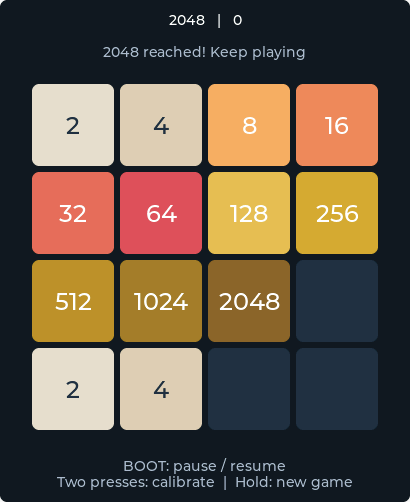
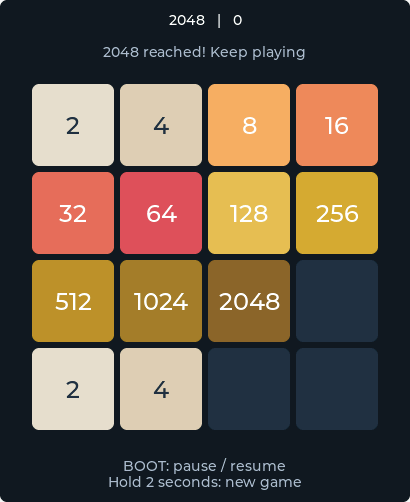
Release 0.1.2 with touchscreen swipe controls for 2048

Changed region(s): [[0.1463, 0.9263, 0.8488, 0.9861]]

diff --git a/FirmWare/watch/components/dp_watch_2048/GameView.h b/FirmWare/watch/components/dp_watch_2048/GameView.h
@@ -1,13 +1,12 @@
 #pragma once
 #include "BootButton.h"
-#include "CalibrationService.h"
 #include "Game2048.h"
-#include "MotionControl.h"
+#include "SwipeControl.h"
 #include <lvgl.h>
 namespace dpwatch {
 class GameView {
     lv_obj_t *root = nullptr, *tiles[16]{}, *scoreLabel = nullptr, *statusLabel = nullptr;
-    CalibrationState sharedState = CalibrationState::Needed;
+    SwipeControl swipe;
     bool paused = false;
     BootButton boot;
     void render() {
@@ -33,28 +32,37 @@ class GameView {
     void status() {
         if (!root)
             return;
-        const char *text = "Double-press BOOT to calibrate";
-        if (sharedState == CalibrationState::Loading)
-            text = "Keep flat and still - calibrating";
-        else if (sharedState == CalibrationState::Unavailable)
-            text = "Motion sensor unavailable";
-        else if (sharedState == CalibrationState::Error)
-            text = "Calibration failed - double-press BOOT";
-        else if (sharedState == CalibrationState::Ready) {
-            if (paused)
-                text = "Paused - press BOOT to resume";
-            else if (!game.canMove())
-                text = "Game over - hold BOOT for a new game";
-            else
-                text =
-                    game.won() ? "2048 reached! Keep playing" : "Tilt to move; return to neutral";
-        }
+        const char *text = "Swipe to move the tiles";
+        if (paused) text = "Paused - press BOOT to resume";
+        else if (!game.canMove()) text = "Game over - hold BOOT for a new game";
+        else if (game.won()) text = "2048 reached! Keep playing";
         lv_label_set_text(statusLabel, text);
     }
 
   public:
     Game2048 game;
-    MotionControl motion;
+    // LVGL routes the entire board contact here, including contacts on tiles.
+    static void touchEvent(lv_event_t *event) {
+        auto *view = static_cast<GameView *>(lv_event_get_user_data(event));
+        auto *input = lv_indev_active();
+        if (!input) return;
+        lv_point_t point;
+        lv_indev_get_point(input, &point);
+        switch (lv_event_get_code(event)) {
+        case LV_EVENT_PRESSED: view->touchDown(point.x, point.y); break;
+        case LV_EVENT_RELEASED: view->touchUp(point.x, point.y); break;
+        case LV_EVENT_PRESS_LOST: view->swipe.cancel(); break;
+        default: break;
+        }
+    }
+    void touchDown(int x, int y) { if (!paused) swipe.press(x, y); }
+    void touchUp(int x, int y) {
+        const auto direction = swipe.release(x, y);
+        if (!paused && direction != Direction::None && game.move(direction)) {
+            render();
+            status();
+        }
+    }
     void open(lv_obj_t *parent, unsigned seed) {
         if (game.cells == std::array<uint32_t, 16>{})
             game.reset(seed);
@@ -82,13 +90,15 @@ class GameView {
         lv_obj_set_style_pad_all(board, 0, 0);
         lv_obj_set_style_border_width(board, 0, 0);
         lv_obj_set_style_bg_color(board, lv_color_hex(0x101827), 0);
-        lv_obj_remove_flag(board, LV_OBJ_FLAG_SCROLLABLE);
+        lv_obj_remove_flag(board, static_cast<lv_obj_flag_t>(LV_OBJ_FLAG_SCROLLABLE | LV_OBJ_FLAG_GESTURE_BUBBLE));
+        lv_obj_add_flag(board, LV_OBJ_FLAG_PRESS_LOCK);
+        lv_obj_add_event_cb(board, touchEvent, LV_EVENT_ALL, this);
         for (int i = 0; i < 16; ++i) {
             auto *tile = lv_obj_create(board);
             lv_obj_set_size(tile, cell, cell);
             lv_obj_set_pos(tile, (i % 4) * (cell + 6), (i / 4) * (cell + 6));
             lv_obj_set_style_border_width(tile, 0, 0);
-            lv_obj_remove_flag(tile, LV_OBJ_FLAG_SCROLLABLE);
+            lv_obj_remove_flag(tile, static_cast<lv_obj_flag_t>(LV_OBJ_FLAG_SCROLLABLE | LV_OBJ_FLAG_CLICKABLE));
             tiles[i] = lv_label_create(tile);
             lv_obj_set_style_text_font(tiles[i], &lv_font_montserrat_24, 0);
             lv_obj_center(tiles[i]);
@@ -97,59 +107,37 @@ class GameView {
         lv_obj_set_width(guide, lv_pct(100));
         lv_obj_set_style_text_align(guide, LV_TEXT_ALIGN_CENTER, 0);
         lv_obj_set_style_text_color(guide, lv_color_hex(0xA9BBCF), 0);
-        lv_label_set_text(guide, "BOOT: pause / resume\nTwo presses: calibrate  |  Hold: new game");
+        lv_label_set_text(guide, "BOOT: pause / resume\nHold 2 seconds: new game");
         lv_obj_align(guide, LV_ALIGN_BOTTOM_MID, 0, 0);
         paused = false;
         boot = BootButton{};
-        if (sharedState == CalibrationState::Ready)
-            motion.useNeutral(0, 0, lv_tick_get());
+        swipe.cancel();
         render();
         status();
     }
-    void resumeInput(unsigned now) {
+    void resumeInput(unsigned) {
         boot = BootButton{};
-        if (sharedState == CalibrationState::Ready) motion.useNeutral(0, 0, now);
-    }
-    void calibrationState(CalibrationState state, unsigned now) {
-        if (state == sharedState)
-            return;
-        sharedState = state;
-        if (state == CalibrationState::Ready)
-            motion.useNeutral(0, 0, now);
-        else
-            motion.unavailable();
-        status();
-    }
-    void feed(const MotionSample &sample, unsigned now) {
-        if (paused || sharedState != CalibrationState::Ready)
-            return;
-        const auto direction = motion.update(sample, now);
-        if (direction != Direction::None && game.move(direction)) {
-            render();
-            status();
-        }
+        swipe.cancel();
     }
     bool button(bool pressed, unsigned now) {
         auto action = boot.update(pressed, now);
-        if (action == ButtonAction::Calibrate)
-            return sharedState != CalibrationState::Loading;
+
         if (action == ButtonAction::TogglePause) {
             paused = !paused;
-            if (!paused && sharedState == CalibrationState::Ready)
-                motion.useNeutral(0, 0, now);
+            swipe.cancel();
             status();
         }
         if (action == ButtonAction::NewGame) {
             game.reset(now);
             paused = false;
-            if (sharedState == CalibrationState::Ready)
-                motion.useNeutral(0, 0, now);
+            swipe.cancel();
             render();
             status();
         }
         return false;
     }
     void close() {
+        swipe.cancel();
         if (root)
             lv_obj_delete(root);
         root = nullptr;

diff --git a/tests/watch/preview/preview.cpp b/tests/watch/preview/preview.cpp
@@ -5,35 +5,47 @@
 static std::array<uint16_t,410*502> pixels{};
 static std::array<uint16_t,410*40> buffer{};
 static void flush(lv_display_t*d,const lv_area_t*a,uint8_t*raw){auto *source=reinterpret_cast<uint16_t*>(raw);for(int y=a->y1;y<=a->y2;++y)for(int x=a->x1;x<=a->x2;++x)pixels[y*410+x]=*source++;lv_display_flush_ready(d);}
+static lv_point_t point{};
+static bool pressed = false;
+static void readTouch(lv_indev_t*, lv_indev_data_t *data) {
+ data->point = point;
+ data->state = pressed ? LV_INDEV_STATE_PRESSED : LV_INDEV_STATE_RELEASED;
+}
+static void touch(lv_indev_t *input, int x, int y, bool down) {
+ point = {x,y}; pressed = down; lv_tick_inc(20); lv_indev_read(input);
+}
+static void swipe(lv_indev_t *input, int x, int y, int endX, int endY) {
+ touch(input,x,y,true); touch(input,endX,endY,true); touch(input,endX,endY,false);
+}
 int main(int argc,char**argv){
  lv_init();auto*d=lv_display_create(410,502);lv_display_set_color_format(d,LV_COLOR_FORMAT_RGB565);lv_display_set_flush_cb(d,flush);lv_display_set_buffers(d,buffer.data(),nullptr,buffer.size()*2,LV_DISPLAY_RENDER_MODE_PARTIAL);
- dpwatch::GameView view;view.open(lv_screen_active(),42);
- view.calibrationState(dpwatch::CalibrationState::Ready, 0);
- assert(view.motion.state()==dpwatch::MotionState::Ready);
- view.button(false, 0);
- view.button(true, 100); view.button(true, 140);
- view.button(false, 200); view.button(false, 240); view.button(false, 610);
- const auto saved=view.game.cells;
- view.feed({0,0,1,0,0,0},700);
- view.feed({.5f,0,.866f,0,0,0},800);view.feed({.5f,0,.866f,0,0,0},1000);
- assert(view.game.cells==saved);
+ auto *input=lv_indev_create();lv_indev_set_type(input,LV_INDEV_TYPE_POINTER);lv_indev_set_read_cb(input,readTouch);
+ dpwatch::GameView view;view.open(lv_screen_active(),42);lv_obj_update_layout(lv_screen_active());
+ // Exercise LVGL hit testing over the actual tile widgets, not just the classifier.
+ const int ends[4][2]={{100,220},{300,220},{200,120},{200,320}};
+ for (const auto &end:ends) {
+  view.game.cells={};view.game.cells[5]=2;view.game.cells[6]=2;
+  const auto saved=view.game.cells;
+  swipe(input,200,220,end[0],end[1]);assert(view.game.cells!=saved);
+ }
+ auto saved=view.game.cells;swipe(input,200,220,210,225);assert(view.game.cells==saved);
+ swipe(input,200,220,250,270);assert(view.game.cells==saved);
+ view.button(false,0);view.button(true,100);view.button(true,140);
+ view.button(false,200);view.button(false,240);view.button(false,610);
+ swipe(input,200,220,100,220);assert(view.game.cells==saved);
  view.button(true,1100);view.button(true,1140);view.button(false,1200);view.button(false,1240);view.button(false,1610);
- view.feed({0,0,1,0,0,0},1700);
- view.feed({.5f,0,.866f,0,0,0},1800);view.feed({.5f,0,.866f,0,0,0},2000);
- assert(view.game.cells!=saved);
- view.calibrationState(dpwatch::CalibrationState::Unavailable,2100);
- assert(view.motion.state()==dpwatch::MotionState::Unavailable);
- view.calibrationState(dpwatch::CalibrationState::Loading,2200);
- view.calibrationState(dpwatch::CalibrationState::Ready,3200);
- view.button(true,3300);view.button(true,3340);view.button(true,5400);
+ view.game.cells={};view.game.cells[5]=2;view.game.cells[6]=2;saved=view.game.cells;
+ swipe(input,200,220,100,220);assert(view.game.cells!=saved);
+ // App resume discards an incomplete contact.
+ saved=view.game.cells;touch(input,200,220,true);view.resumeInput(2000);touch(input,100,220,false);assert(view.game.cells==saved);
+ view.button(false,3200);view.button(true,3300);view.button(true,3340);view.button(true,5400);
  unsigned occupied=0;for(auto cell:view.game.cells)occupied+=cell!=0;
  assert(occupied==2 && view.game.score==0);
  view.close();view.close();assert(lv_obj_get_child_count(lv_screen_active())==0);
  for(int i=0;i<30;++i){view.open(lv_screen_active(),42);view.close();assert(lv_obj_get_child_count(lv_screen_active())==0);}
- std::puts("LVGL: shared calibration, BOOT pause/resume, tilt, missing sensor, new game and 30 reopen cycles passed.");
+ std::puts("LVGL: real pointer swipes in four directions, taps, diagonals, pause/resume, cancelled contact, new game and 30 reopen cycles passed.");
  view.open(lv_screen_active(),42);view.game.cells={2,4,8,16,32,64,128,256,512,1024,2048,0,2,4,0,0};
  view.close();view.open(lv_screen_active(),42);
- view.calibrationState(dpwatch::CalibrationState::Ready,5500);
  lv_refr_now(d);auto*f=std::fopen(argc>1?argv[1]:"preview.ppm","wb");if(!f)return 1;std::fprintf(f,"P6\n410 502\n255\n");
  for(auto c:pixels){unsigned char rgb[]={static_cast<unsigned char>(((c>>11)&31)*255/31),static_cast<unsigned char>(((c>>5)&63)*255/63),static_cast<unsigned char>((c&31)*255/31)};std::fwrite(rgb,1,3,f);}std::fclose(f);return 0;
 }

diff --git a/tests/watch/swipe_tests.cpp b/tests/watch/swipe_tests.cpp
@@ -1,0 +1,20 @@
+#include "SwipeControl.h"
+#include <cassert>
+#include <cstdio>
+using namespace dpwatch;
+int main() {
+ SwipeControl s;
+ assert(s.release(100,100)==Direction::None);
+ s.press(200,200); assert(s.release(100,205)==Direction::Left);
+ s.press(200,200); assert(s.release(300,195)==Direction::Right);
+ s.press(200,200); assert(s.release(205,100)==Direction::Up);
+ s.press(200,200); assert(s.release(195,300)==Direction::Down);
+ s.press(200,200); assert(s.release(220,205)==Direction::None);
+ s.press(200,200); assert(s.release(250,250)==Direction::None);
+ s.press(200,200); s.cancel(); assert(s.release(100,200)==Direction::None);
+ s.press(200,200); assert(s.release(100,200)==Direction::Left);
+ assert(s.release(90,200)==Direction::None);
+ s.press(100,100); assert(s.release(132,100)==Direction::Right);
+ s.press(100,100); assert(s.release(131,100)==Direction::None);
+ std::puts("Swipe tests: four directions, tap, diagonal, cancellation, threshold and one move per contact passed.");
+}

diff --git a/FirmWare/watch/components/dp_motion/include/SwipeControl.h b/FirmWare/watch/components/dp_motion/include/SwipeControl.h
@@ -1,0 +1,23 @@
+#pragma once
+#include "Game2048.h"
+namespace dpwatch {
+// Classify one completed contact. Short taps and ambiguous diagonals do not move.
+class SwipeControl {
+    int startX = 0, startY = 0;
+    bool active = false;
+public:
+    void press(int x, int y) { startX = x; startY = y; active = true; }
+    void cancel() { active = false; }
+    Direction release(int x, int y) {
+        if (!active) return Direction::None;
+        active = false;
+        const int dx = x - startX, dy = y - startY;
+        const int ax = dx < 0 ? -dx : dx, ay = dy < 0 ? -dy : dy;
+        if (ax >= 32 && ax * 2 >= ay * 3)
+            return dx < 0 ? Direction::Left : Direction::Right;
+        if (ay >= 32 && ay * 2 >= ax * 3)
+            return dy < 0 ? Direction::Up : Direction::Down;
+        return Direction::None;
+    }
+};
+}

diff --git a/FirmWare/watch/components/dp_watch_2048/Watch2048.cpp b/FirmWare/watch/components/dp_watch_2048/Watch2048.cpp
@@ -14,13 +14,7 @@ void Watch2048::poll(lv_timer_t *timer) {
     auto *app = static_cast<Watch2048 *>(lv_timer_get_user_data(timer));
     const auto data = dpwatch::motionSnapshot();
     const auto now = lv_tick_get();
-    app->view.calibrationState(data.state, now);
-    if (app->view.button(data.bootPressed, now))
-        dpwatch::requestMotionCalibration();
-    if (data.state == dpwatch::CalibrationState::Ready && data.ageMs < 100)
-        app->view.feed({-data.sample.ay, data.sample.ax, data.sample.az, -data.sample.gy,
-                        data.sample.gx, data.sample.gz},
-                       now);
+    app->view.button(data.bootPressed, now);
 }
 bool Watch2048::back() { return notifyCoreClosed(); }
 bool Watch2048::pause() {

diff --git a/scripts/test_watch.py b/scripts/test_watch.py
@@ -7,7 +7,7 @@ BUILD = ROOT / '.build' / 'watch-tests'
 BUILD.mkdir(parents=True, exist_ok=True)
 INCLUDE = ROOT / 'FirmWare/watch/components/dp_motion/include'
 VCVARS = Path(os.environ.get('ProgramFiles', 'C:/Program Files')) / 'Microsoft Visual Studio/2022/Community/VC/Auxiliary/Build/vcvars64.bat'
-for name in ('core_tests', 'calibration_tests'):
+for name in ('core_tests', 'calibration_tests', 'swipe_tests'):
     executable = BUILD / (name + '.exe')
     source = ROOT / 'tests/watch' / (name + '.cpp')
     command = f'call "{VCVARS}" >nul && cl /nologo /EHsc /std:c++17 /W4 /WX /I"{INCLUDE}" /Fe:"{executable}" /Fo:"{BUILD / (name + ".obj")}" "{source}"'

diff --git a/FirmWare/watch/components/Settings/ui/AboutPage.cpp b/FirmWare/watch/components/Settings/ui/AboutPage.cpp
@@ -54,7 +54,7 @@ namespace esp_brookesia::apps
         settings_ui::add_info_row(
             list1, nullptr, "Product", "Digital Projections Watch", style_list_btn);
 
-        settings_ui::add_info_row(list1, nullptr, "Version", "0.1.1", style_list_btn);
+        settings_ui::add_info_row(list1, nullptr, "Version", "0.1.2", style_list_btn);
         settings_ui::add_info_row(list1, nullptr, "Board", "Waveshare AMOLED 2.06", style_list_btn);
         settings_ui::add_section(list1, "Software", style_list_text);
         settings_ui::add_info_row(list1, nullptr, "UI Framework", "ESP-Brookesia", style_list_btn);

diff --git a/FirmWare/watch/main/main.cpp b/FirmWare/watch/main/main.cpp
@@ -530,7 +530,7 @@ void update_status_bar_clock(lv_timer_t *timer)
 
 extern "C" void app_main(void)
 {
-    ESP_UTILS_LOGI("Starting Digital Projections Watch 0.1.1");
+    ESP_UTILS_LOGI("Starting Digital Projections Watch 0.1.2");
     lv_display_t *display = start_brookesia_display();
     ESP_UTILS_CHECK_NULL_EXIT(display, "Start display failed");
 

diff --git a/README.md b/README.md
@@ -2,15 +2,19 @@
 
 An extensible watch system for the ESP32-S3 with a 2.06-inch 410 x 502 AMOLED display.
 
-Version 0.1.1 is in development. The integrated firmware has not yet passed hardware acceptance testing.
+Version 0.1.2 switches 2048 to touchscreen swipes. Host rules and LVGL pointer-input tests passed; installation and physical swipe confirmation are pending. Shared motion calibration, reboot persistence, SD read/write, and physical BOOT controls were verified in 0.1.1. Media/audio and AI account journeys remain unverified. See [prior validation evidence](docs/watch-validation-0.1.1.json).
 
 ## Applications
 
 The system includes 2048, GravitySphere, calculator, drawing, gallery, music, recording, video, settings, and AI chat. Factory applications are adapted from the Waveshare 1.75-inch Brookesia source to the 2.06-inch hardware. Original licensing and attribution are retained.
 
-2048 uses the accelerometer for directional tilt and gyroscope readings to reject abrupt rotation. Return the watch to neutral after each move. BOOT toggles pause, a double press calibrates, and a two-second hold starts a new game. GravitySphere uses the same calibration; holding BOOT centres its ball.
+Swipe across the 2048 board to move tiles in that direction. Short taps and ambiguous diagonal swipes are ignored; each contact makes at most one move. BOOT toggles pause and a two-second hold starts a new game. 2048 works independently of motion calibration. In GravitySphere, double-press BOOT to calibrate and hold BOOT to centre the ball.
 
 Calibration is shared across motion apps and saved to NVS. Keep the watch flat and still during calibration. A successful stationary measurement corrects accelerometer and gyroscope bias; it does not perform six-face scale calibration. Calibration reports loading, success, unavailable, or error and has an eight-second deadline.
+
+![2048 development preview](docs/screenshots/2048-preview.png)
+
+The image above is a host-rendered UI preview.
 
 ## Development
 

diff --git a/FirmWare/watch/HARDWARE_VALIDATION.md b/FirmWare/watch/HARDWARE_VALIDATION.md
@@ -9,10 +9,10 @@ Use USB console commands after boot:
 1. `watch`: list all installed applications; confirm 2048 and GravitySphere appear in the launcher.
 2. `motion`: inspect sensor state and units. A stationary watch should have acceleration magnitude close to 1 g.
 3. `calibrate`: with the watch flat and still, wait for `motion` to show ready and a nonzero generation.
-4. Open both motion apps using `watch open ID`, return using `watch home`, and verify the same calibration generation. Repeat launch/close cycles and monitor free internal memory and reset/panic logs.
+4. Open GravitySphere and 2048 using `watch open ID`, return using `watch home`, and verify the same calibration generation. Repeat launch/close cycles and monitor free internal memory and reset/panic logs.
 5. Reboot, query `motion`, and verify that the calibration generation and corrected stationary readings persist.
 6. `sd`: mount and report the card capacity. `sd test`: verify a newly created 16 KiB temporary file by CRC; the test removes its own file.
-7. Physically test tilt in four directions, return to neutral, BOOT pause/resume, double-press calibration, long-press reset, touch navigation, and display orientation.
+7. Physically test 2048 swipes in four directions, taps without moves, BOOT pause/resume and long-press new game. Test GravitySphere tilt and BOOT double-press calibration separately. Verify touch navigation and display orientation.
 8. Inspect audio, recording, playback, settings, and AI chat separately; successful compilation does not verify those device or network paths.
 
 Host tests and render evidence are separate from physical button, touch, display and motion evidence. Record failures and remaining checks in the release report.

diff --git a/README_ZH.md b/README_ZH.md
@@ -2,4 +2,4 @@
 
 面向 ESP32-S3 与 2.06 英寸 AMOLED 屏幕的可扩展手表系统。
 
-当前版本 0.1.1 正在开发中，尚未完成实机验收。系统正在集成倾斜控制的 2048 游戏，并为所有运动应用提供持久化的共享校准。项目说明、构建流程及测试状态请参阅 [README](README.md)。
+0.1.2 版将 2048 改为触屏滑动操作，保留 BOOT 暂停和长按开始新游戏。规则测试及 LVGL 触控流程测试已通过，安装和实体触屏验证尚待完成。GravitySphere 继续使用持久化共享运动校准。项目说明、构建流程及测试状态请参阅 [README](README.md)。
